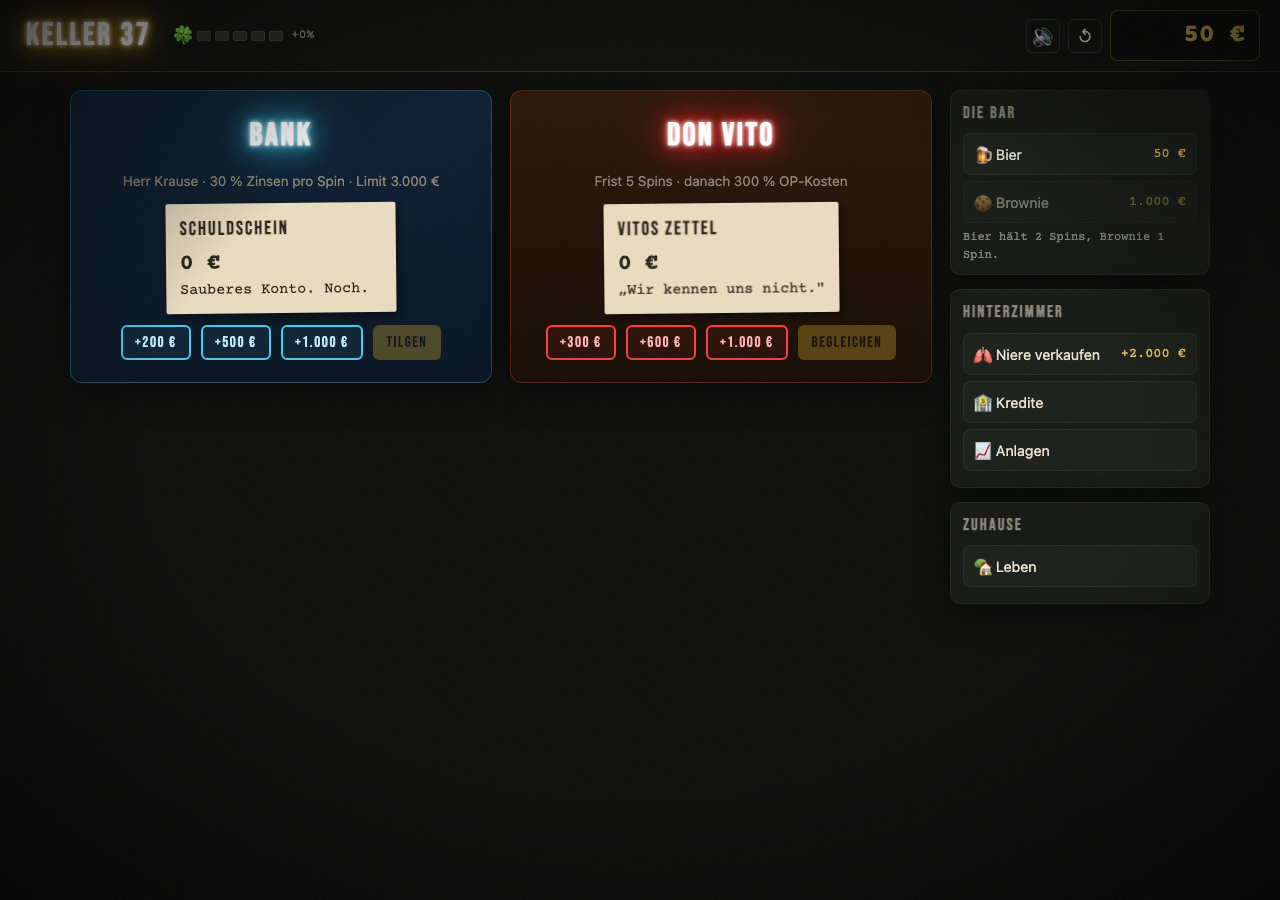
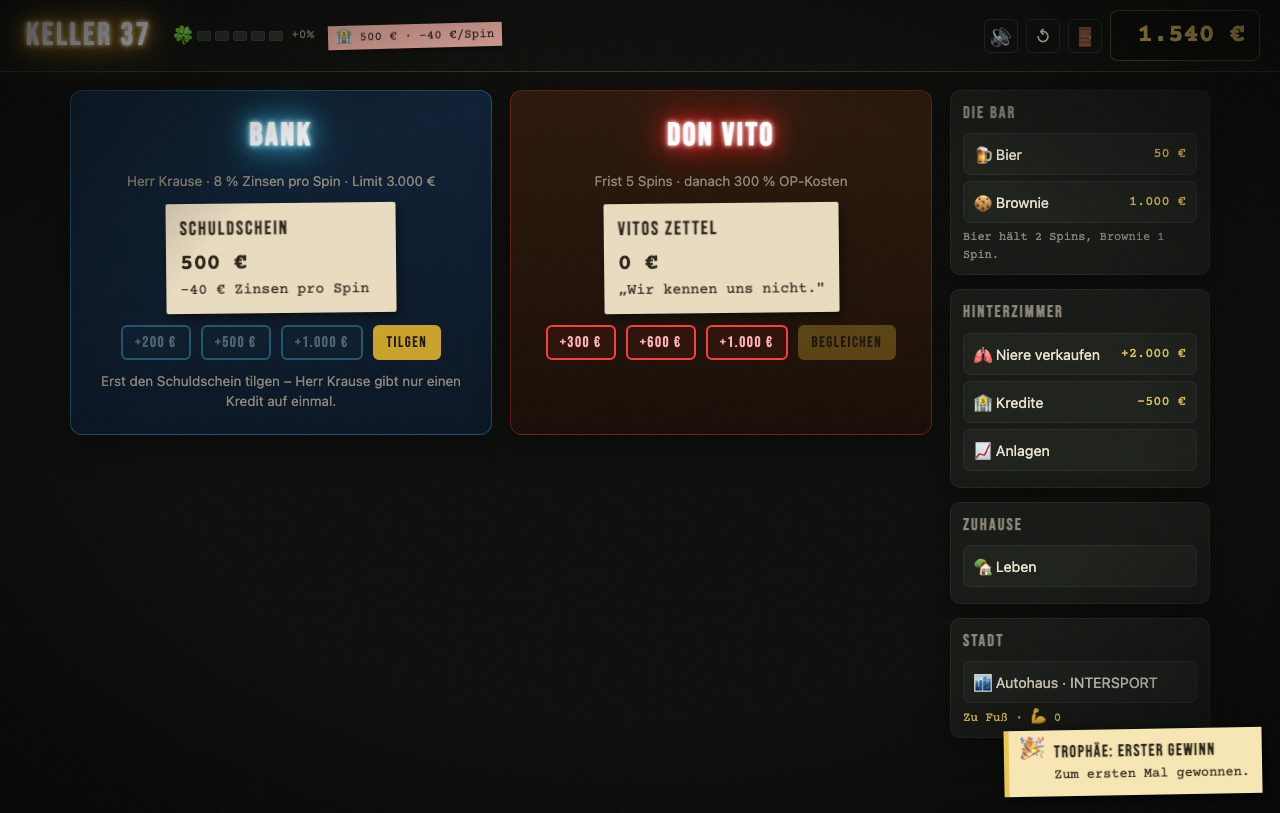
test: Playtest für Roulette-Chips, Kredit-Sperre, Anlagen-Sperre; Screenshots; Checkliste

diff --git a/tests/playtest-story.py b/tests/playtest-story.py
@@ -944,7 +944,7 @@ async def scenario_stadt_shop(cdp):
     line = await cdp.eval("document.querySelector('#gearLine') && document.querySelector('#gearLine').textContent", await_promise=False)
     record("stadt: Seitenleiste zeigt Besitz", line is not None and "Mercedes C-Klasse" in line and "Trail-Runner" in line and "💪 0" in line, "line=%s" % line)
     terms = await cdp.eval("UI.show('finance').then(()=>document.querySelector('#bankTerms').textContent)")
-    record("stadt: Bank zeigt Mercedes-Konditionen", terms is not None and "27 %" in terms and "4.000" in terms, "terms=%s" % terms)
+    record("stadt: Bank zeigt Mercedes-Konditionen", terms is not None and "7 %" in terms and "4.000" in terms, "terms=%s" % terms)
 
 
 async def scenario_mugging(cdp):
@@ -1097,6 +1097,78 @@ async def scenario_free_sandbox_unchanged(cdp):
                pct < DIFF_THRESHOLD_PCT, detail)
 
 
+async def scenario_roulette_chips(cdp):
+    """Roulette: Chips legen/zurueck/leeren, ein Dreh wertet alles aus, Wie zuletzt; Bank-Sperre; Anlagen-Sperre."""
+    await cdp.navigate(URL_BASE + "?fresh&screen=roulette")
+    await asyncio.sleep(1.0)
+    await cdp.inject_helpers()
+    await cdp.eval("State.s.balance = 1000; State.save(); UI.setBalance(1000, {animate:false}); 0", await_promise=False)
+    await cdp.eval("document.querySelector('#rouletteBet').value = 10; Roulette.place('number', 17, Roulette.cellFor('number', 17)); 0", await_promise=False)
+    await cdp.eval("document.querySelector('#rouletteBet').value = 50; Roulette.place('red', null, Roulette.cellFor('red', null)); 0", await_promise=False)
+    await cdp.eval("document.querySelector('#rouletteBet').value = 20; Roulette.place('even', null, Roulette.cellFor('even', null)); 0", await_promise=False)
+    await asyncio.sleep(0.6)
+    total = await cdp.eval("document.querySelector('#tableTotal').textContent", await_promise=False)
+    stacks = await cdp.eval("[...document.querySelectorAll('.chip-stack')].map(e=>e.dataset.key+':'+e.textContent).sort().join(',')", await_promise=False)
+    record("roulette: drei Chips liegen, Summe 80", total is not None and "80 €" in total and "3 Chips" in total and stacks == "even:20,n17:10,red:50", "total=%s stacks=%s" % (total, stacks))
+    await cdp.screenshot("roulette-chips.png")
+    await cdp.click("#btnUndo")
+    await asyncio.sleep(0.2)
+    n = await cdp.eval("Roulette.bets.length", await_promise=False)
+    record("roulette: Chip zurueck entfernt den letzten", n == 2, "bets=%s" % n)
+    await cdp.click("#btnClear")
+    await asyncio.sleep(0.2)
+    n = await cdp.eval("Roulette.bets.length", await_promise=False)
+    spin_disabled = await cdp.eval("document.querySelector('#btnSpin').disabled", await_promise=False)
+    record("roulette: Tisch leeren, Drehen gesperrt", n == 0 and spin_disabled is True, "bets=%s disabled=%s" % (n, spin_disabled))
+    # erneut legen, Ergebnis 18 (rot, gerade) erzwingen: rouletteRoll = floor(rng*37) -> rng = 18.5/37; Luck ist 0
+    await cdp.eval("document.querySelector('#rouletteBet').value = 10; Roulette.place('number', 17, Roulette.cellFor('number', 17)); document.querySelector('#rouletteBet').value = 50; Roulette.place('red', null, Roulette.cellFor('red', null)); 0", await_promise=False)
+    await cdp.eval("window.__origRandom = Math.random; Math.random = () => 18.5/37; 0", await_promise=False)
+    await cdp.click("#btnSpin")
+    await asyncio.sleep(0.3)
+    bal_mid = await cdp.eval("State.s.balance", await_promise=False)
+    record("roulette: Einsatz 60 einmal abgezogen (Escrow)", bal_mid == 940, "bal=%s" % bal_mid)
+    await asyncio.sleep(4.6)
+    await cdp.eval("Math.random = window.__origRandom; 0", await_promise=False)
+    bal = await cdp.eval("State.s.balance", await_promise=False)
+    status = await cdp.eval("document.querySelector('#rouletteStatus').textContent", await_promise=False)
+    record("roulette: 18 -> 17 verliert, Rot gewinnt, netto +40", bal == 1040 and status is not None and "Rot ✓ +50" in status and "17 ✗" in status, "bal=%s status=%s" % (bal, status))
+    last = await cdp.eval("JSON.stringify(Roulette.lastBets)", await_promise=False)
+    await cdp.click("#btnRepeat")
+    await asyncio.sleep(0.3)
+    again = await cdp.eval("JSON.stringify(Roulette.bets)", await_promise=False)
+    record("roulette: Wie zuletzt legt dieselben Chips", last is not None and again == last, "last=%s again=%s" % (last, again))
+    # Bank: ein Kredit auf einmal
+    await cdp.eval("UI.show('finance'); 0", await_promise=False)
+    await asyncio.sleep(0.6)
+    await cdp.eval("Finance.loanBank(500); 0", await_promise=False)
+    await asyncio.sleep(0.6)
+    await cdp.advance_cutscene()
+    await asyncio.sleep(0.3)
+    disabled = await cdp.eval("[...document.querySelectorAll('[data-loan]')].every(b=>b.disabled)", await_promise=False)
+    hint = await cdp.eval("document.querySelector('#bankHint').textContent", await_promise=False)
+    debt = await cdp.eval("State.s.bankDebt", await_promise=False)
+    record("bank: bei offenem Kredit alle Kredit-Knoepfe gesperrt, Hinweis sichtbar", debt == 500 and disabled is True and hint is not None and "tilgen" in hint, "debt=%s disabled=%s hint=%s" % (debt, disabled, hint))
+    terms = await cdp.eval("document.querySelector('#bankTerms').textContent", await_promise=False)
+    record("bank: Konditionen 8 %", terms is not None and "8 %" in terms, "terms=%s" % terms)
+    await cdp.screenshot("story-free-finance.png")
+    # Anlagen: je Sorte eine
+    await cdp.eval("UI.show('invest'); 0", await_promise=False)
+    await asyncio.sleep(0.6)
+    await cdp.eval("document.querySelector('#invBank').value = 20; Invest.invest('bank'); 0", await_promise=False)
+    await asyncio.sleep(0.4)
+    running = await cdp.eval("document.querySelector('.chalk.inv[data-type=bank] .inv-running').textContent", await_promise=False)
+    form_hidden = await cdp.eval("document.querySelector('.chalk.inv[data-type=bank] .inv-form').classList.contains('hidden')", await_promise=False)
+    inv = await cdp.eval("JSON.stringify(State.s.investments)", await_promise=False)
+    record("anlagen: Festgeld laeuft, Karte zeigt laufende Anlage, Eingabe weg", form_hidden is True and running is not None and "20 €" in running and "6 Spins" in running and inv is not None and '"type":"bank"' in inv, "running=%s hidden=%s inv=%s" % (running, form_hidden, inv))
+    bal_before = await cdp.eval("State.s.balance", await_promise=False)
+    await cdp.eval("Invest.invest('bank'); 0", await_promise=False)
+    await asyncio.sleep(0.3)
+    bal_after = await cdp.eval("State.s.balance", await_promise=False)
+    n_inv = await cdp.eval("State.s.investments.length", await_promise=False)
+    record("anlagen: zweites Festgeld abgelehnt", bal_after == bal_before and n_inv == 1, "before=%s after=%s n=%s" % (bal_before, bal_after, n_inv))
+    await cdp.screenshot("story-free-invest.png")
+
+
 async def main():
     cdp = CDP()
     cdp.launch(mobile=MOBILE)
@@ -1120,6 +1192,7 @@ async def main():
         await scenario_stadt_shop(cdp)
         await scenario_mugging(cdp)
         await scenario_story_stadt(cdp)
+        await scenario_roulette_chips(cdp)
     finally:
         n_errors = len(cdp.console_errors)
         for e in cdp.console_errors:

diff --git a/docs/superpowers/checklist-tisch-2026-09-17.md b/docs/superpowers/checklist-tisch-2026-09-17.md
@@ -1,0 +1,78 @@
+# Checkliste: Tisch & Bank (2026-09-17)
+
+Eine Zeile je Anforderung aus `docs/superpowers/specs/2026-09-17-tisch-und-bank-design.md` (§2.1–2.4, §3, §4), mit Nachweis. Node-Selftests laufen über `?selftest` (Namen wie in `keller37.html`, Block `Tisch & Bank`, ab Zeile 5680); Browser-Playtest über `python3 -u tests/playtest-story.py` (Checks in `scenario_roulette_chips`, sofern nicht anders benannt); Screenshots unter `docs/superpowers/screenshots/`.
+
+## §2.1 Datenmodell
+
+| Anforderung | Nachweis |
+|---|---|
+| `Roulette.bets = [{ type, n, amount }]`, jeder Klick ein eigener Chip (kein Zusammenlegen) | Playtest `roulette: drei Chips liegen, Summe 80` (`stacks == "even:20,n17:10,red:50"` — drei separate Bets, Anzeige summiert pro Feld) |
+| `Roulette.lastBets` für „Wie zuletzt" | Playtest `roulette: Wie zuletzt legt dieselben Chips` |
+| `undo()` entfernt den zuletzt gelegten Chip | Playtest `roulette: Chip zurueck entfernt den letzten` (`bets: 3 → 2`) |
+| `clear()` entfernt alle | Playtest `roulette: Tisch leeren, Drehen gesperrt` (`bets == 0`) |
+
+## §2.2 Bedienung
+
+| Anforderung | Nachweis |
+|---|---|
+| Einsatzfeld „Chip", Schnellwahl 10/50/100/500/Max | Screenshot `roulette-chips.png`, `roulette.png` (Chip-Buttons 10/50/100/500/MAX sichtbar) |
+| Klick legt Chip mit aktuellem Chip-Wert, `.chip-stack` zeigt Feldsumme | Playtest `roulette: drei Chips liegen, Summe 80`; Screenshot `roulette-chips.png` (Marker „10"/„50"/„20" auf den Feldern) |
+| Kopfzeile „Auf dem Tisch: X € · Y Chips", Buttons Drehen/↶ Chip zurück/Tisch leeren/Wie zuletzt | Playtest `roulette: drei Chips liegen, Summe 80` (`total` enthält „80 €" und „3 Chips"); Screenshot `roulette-chips.png` (alle vier Buttons in der Kopfzeile) |
+| Chip nur legbar, wenn `Rules.checkSpin(s, total+chip).ok`, sonst Toast | Code `Roulette.place()` (`keller37.html:2888-2897`) ruft `Rules.checkSpin` vor jedem Push; Node-Selftests `checkSpin: ungültiger Einsatz`, `checkSpin: zu wenig Geld inkl. Kosten`, `checkSpin: ok` decken die zugrunde liegende Regel ab |
+| Drehen deaktiviert ohne Chips | Playtest `roulette: Tisch leeren, Drehen gesperrt` (`disabled=True` bei `bets=0`) |
+| Tisch während der Kugel gesperrt | Code `Roulette.spin()` setzt `#rtable` auf `.locked` und `renderBar()` deaktiviert alle vier Buttons, solange `this.spinning` (`keller37.html:2882-2886,2938`); indirekt bestätigt durch Playtest `roulette: Einsatz 60 einmal abgezogen (Escrow)` direkt nach `#btnSpin`-Klick |
+
+## §2.3 Auswertung
+
+| Anforderung | Nachweis |
+|---|---|
+| `Game.beginSpin(total)` einmal (Escrow: Summe + Zinsen + Meds) | Playtest `roulette: Einsatz 60 einmal abgezogen (Escrow)` (`bal=940` nach einmaligem Abzug von 60 aus 1000) |
+| Auszahlung: Zahl 35:1 + Einsatz zurück, Außenfelder 1:1 + Einsatz zurück, Null lässt Außenfelder verlieren | Node-Selftest `rouletteTotal / rouletteSettle: Zahl + Rot + Gerade` (18 → Rot+Gerade treffen, Zahl verliert, `payout=140`; 17 → nur Zahl trifft, `payout=360`; 0 → `payout=0`) |
+| Glück wirkt auf genau einen Chip via `Rules.rouletteLuckTarget` (höchster Einsatz, Zahl vor Außenfeld, dann Reihenfolge) | Node-Selftest `rouletteLuckTarget: höchster Einsatz, Zahl vor Außenfeld, dann Reihenfolge` |
+| Statuszeile „Rot ✓ +50 · 17 ✗ · Gerade ✓ +50 → +100 €"-Format | Playtest `roulette: 18 -> 17 verliert, Rot gewinnt, netto +40` (`status` enthält „Rot ✓ +50" und „17 ✗") |
+| Tisch nach Dreh geleert, `lastBets` gespeichert | Playtest `roulette: Wie zuletzt legt dieselben Chips` (liest `Roulette.lastBets` nach dem Dreh, legt sie erneut) |
+| Bus-Event `roulette:result { bets, rolled, payout, hits }` | Code `Roulette.spin()` (`keller37.html:2975`) emittiert `Bus.emit('roulette:result', { bets, rolled, payout, hits, total, win })` |
+| Trophäe „Plein" bei Zahl-Treffer | Code `Bus.on('roulette:result', ...)` (`keller37.html:3515`) schaltet `Achievements.unlock('plein')` bei `hits.some(x => x.win && x.bet.type === 'number')` frei — im Szenario trifft der Zahl-Chip auf 17 nicht (Ergebnis 18), daher kein eigener Playtest-Check für diese Trophäe in dieser Task; reine Code-Prüfung |
+| Story-Statistik „Verzockt" bekommt Netto-Verlust über `loss` | Code `Bus.on('loss', ...)` (`keller37.html:4213`) addiert `amount` auf `Story.s.stats.gambled`; unverändert aus Vorgänger-Tasks, kein neuer Test nötig |
+
+## §2.4 Reine Regeln
+
+| Anforderung | Nachweis |
+|---|---|
+| `Rules.rouletteSettle(bets, rolled) → { payout, hits }` | Node-Selftest `rouletteTotal / rouletteSettle: Zahl + Rot + Gerade` (inkl. leerer Tisch `{ payout: 0, hits: [] }`) |
+| `Rules.rouletteLuckTarget(bets) → index`, `-1` bei leerem Tisch | Node-Selftest `rouletteLuckTarget: höchster Einsatz, Zahl vor Außenfeld, dann Reihenfolge` (`T.eq(Rules.rouletteLuckTarget([]), -1)`) |
+| `Rules.rouletteTotal(bets) → number` | Node-Selftest `rouletteTotal / rouletteSettle: Zahl + Rot + Gerade` (`T.eq(Rules.rouletteTotal(bets), 80)`) |
+
+## §3 Bank und Vito
+
+| Anforderung | Nachweis |
+|---|---|
+| `Rules.BANK_RATE = 0.08`; Mercedes C/S/G `bankRate` 0.07/0.06/0.05; Limits unverändert (3.000; 4.000/6.000/10.000) | Node-Selftests `INVEST: neue Werte`, `bankInterest: Mercedes-Zinssatz`, `bankLoanAllowed / isGameOver: Mercedes-Limit, beide Quellen zu`; Playtest `stadt: Bank zeigt Mercedes-Konditionen` (Text „7 %" und „4.000") |
+| Ein offener Kredit: `Rules.bankLoanAllowed(s, amt)` verlangt `s.bankDebt === 0` | Node-Selftest `bankLoanAllowed: ein Kredit, Limit 3000` |
+| Finanz-Raum: Kredit-Knöpfe gesperrt bei offenem Kredit, Hinweis „Erst den Schuldschein tilgen." | Playtest `bank: bei offenem Kredit alle Kredit-Knoepfe gesperrt, Hinweis sichtbar` (`disabled=True`, `hint` enthält „tilgen"); Screenshot `finance.png` (Bank-Karte: `+200 €`/`+500 €`/`+1.000 €` gedimmt/deaktiviert, Hinweiszeile darunter, `TILGEN` aktiv; Vito-Karte unverändert klickbar, da eigene Schuldenquelle) |
+| Tilgen bleibt Gesamtsumme (unverändert) | Code `Finance.repayBank()` unverändert aus Vorgänger-Version, kein neuer Test nötig (out of scope dieser Spec) |
+| Vito unverändert (1 Zettel, 5 Spins, ×3); Game-Over-Regel unverändert | Node-Selftests `mafiaBill = 3x`, `isGameOver: beide Quellen zu und kein Spin mehr bezahlbar` (unverändert aus Task 1) |
+| Alle „30 %"-Texte dynamisch oder auf 8 % | Node-Selftest `bankInterest: 8 % gerundet`; Playtest `bank: Konditionen 8 %` (`terms` enthält „8 %"); Playtest `stadt: Bank zeigt Mercedes-Konditionen` (Mercedes-Konditionen jetzt „7 %" statt vormals „27 %" — Szenario-Check dieser Task entsprechend angepasst, siehe Report) |
+
+## §4 Anlagen
+
+| Anforderung | Nachweis |
+|---|---|
+| Katalog-Werte `INVEST.bank/stock/scam` (rate/spins/risk/min) | Node-Selftest `INVEST: neue Werte` |
+| Je Sorte eine laufende Anlage: `Rules.canInvest(s, kind, amount) → { ok, reason }` | Node-Selftest `canInvest / investRunning: je Sorte eine, Mindestbetrag, Geld` |
+| Karte zeigt bei laufender Anlage „Festgeld · X € · noch N Spins" statt Eingabe | Playtest `anlagen: Festgeld laeuft, Karte zeigt laufende Anlage, Eingabe weg` (`running` enthält „20 €" und „6 Spins", `form_hidden=True`); Screenshot `invest.png` (Karte „Läuft: 20 € · noch 6 Spins") |
+| Trickbetrug-Text „Vito legt es für dich an. Frag nicht, wo." | Screenshot `invest.png` (Text unter der Trickbetrug-Karte sichtbar) |
+| Alte Spielstände mit mehreren laufenden Anlagen derselben Sorte laufen aus; neu erst ohne laufende | Node-Selftest `canInvest / investRunning: je Sorte eine, Mindestbetrag, Geld` (Zusatzfall „alte Anlage ohne `type` über den Namen erkannt"); Playtest `anlagen: zweites Festgeld abgelehnt` (Kontostand/Anzahl unverändert nach zweitem Versuch) |
+
+## Screenshots erneuert/neu
+
+- `docs/superpowers/screenshots/roulette.png` — erneuert (`?screen=roulette`, neue Tischleiste mit Kopfzeile/Buttons/Chip-Feld verändert das Referenzbild bewusst; Pixel-Diff dagegen schlägt vor der Erneuerung erwartungsgemäß fehl, siehe Report)
+- `docs/superpowers/screenshots/finance.png` — erneuert (Hinweiszeile unter den Kredit-Knöpfen bei offenem Kredit)
+- `docs/superpowers/screenshots/invest.png` — erneuert (Festgeld-Karte zeigt laufende Anlage „Läuft: …")
+- `docs/superpowers/screenshots/roulette-chips.png` — neu (drei Chips auf dem Tisch, Kopfzeile „Auf dem Tisch: 80 € · 3 Chips")
+
+## Playtest-Läufe
+
+- `python3 -u tests/playtest-story.py` (Lauf 1, vor Erneuerung von `roulette.png`): 90 Checks, 1 fehlgeschlagen (`freie sandbox: ?screen=roulette unveraendert` — erwartet, siehe oben), `ERRORS 0`
+- `python3 -u tests/playtest-story.py` (Lauf 2, nach Erneuerung): 90 Checks, 0 fehlgeschlagen, `ERRORS 0`
+- `python3 -u tests/playtest-story.py --mobile`: 90 Checks, 0 fehlgeschlagen, `ERRORS 0`
